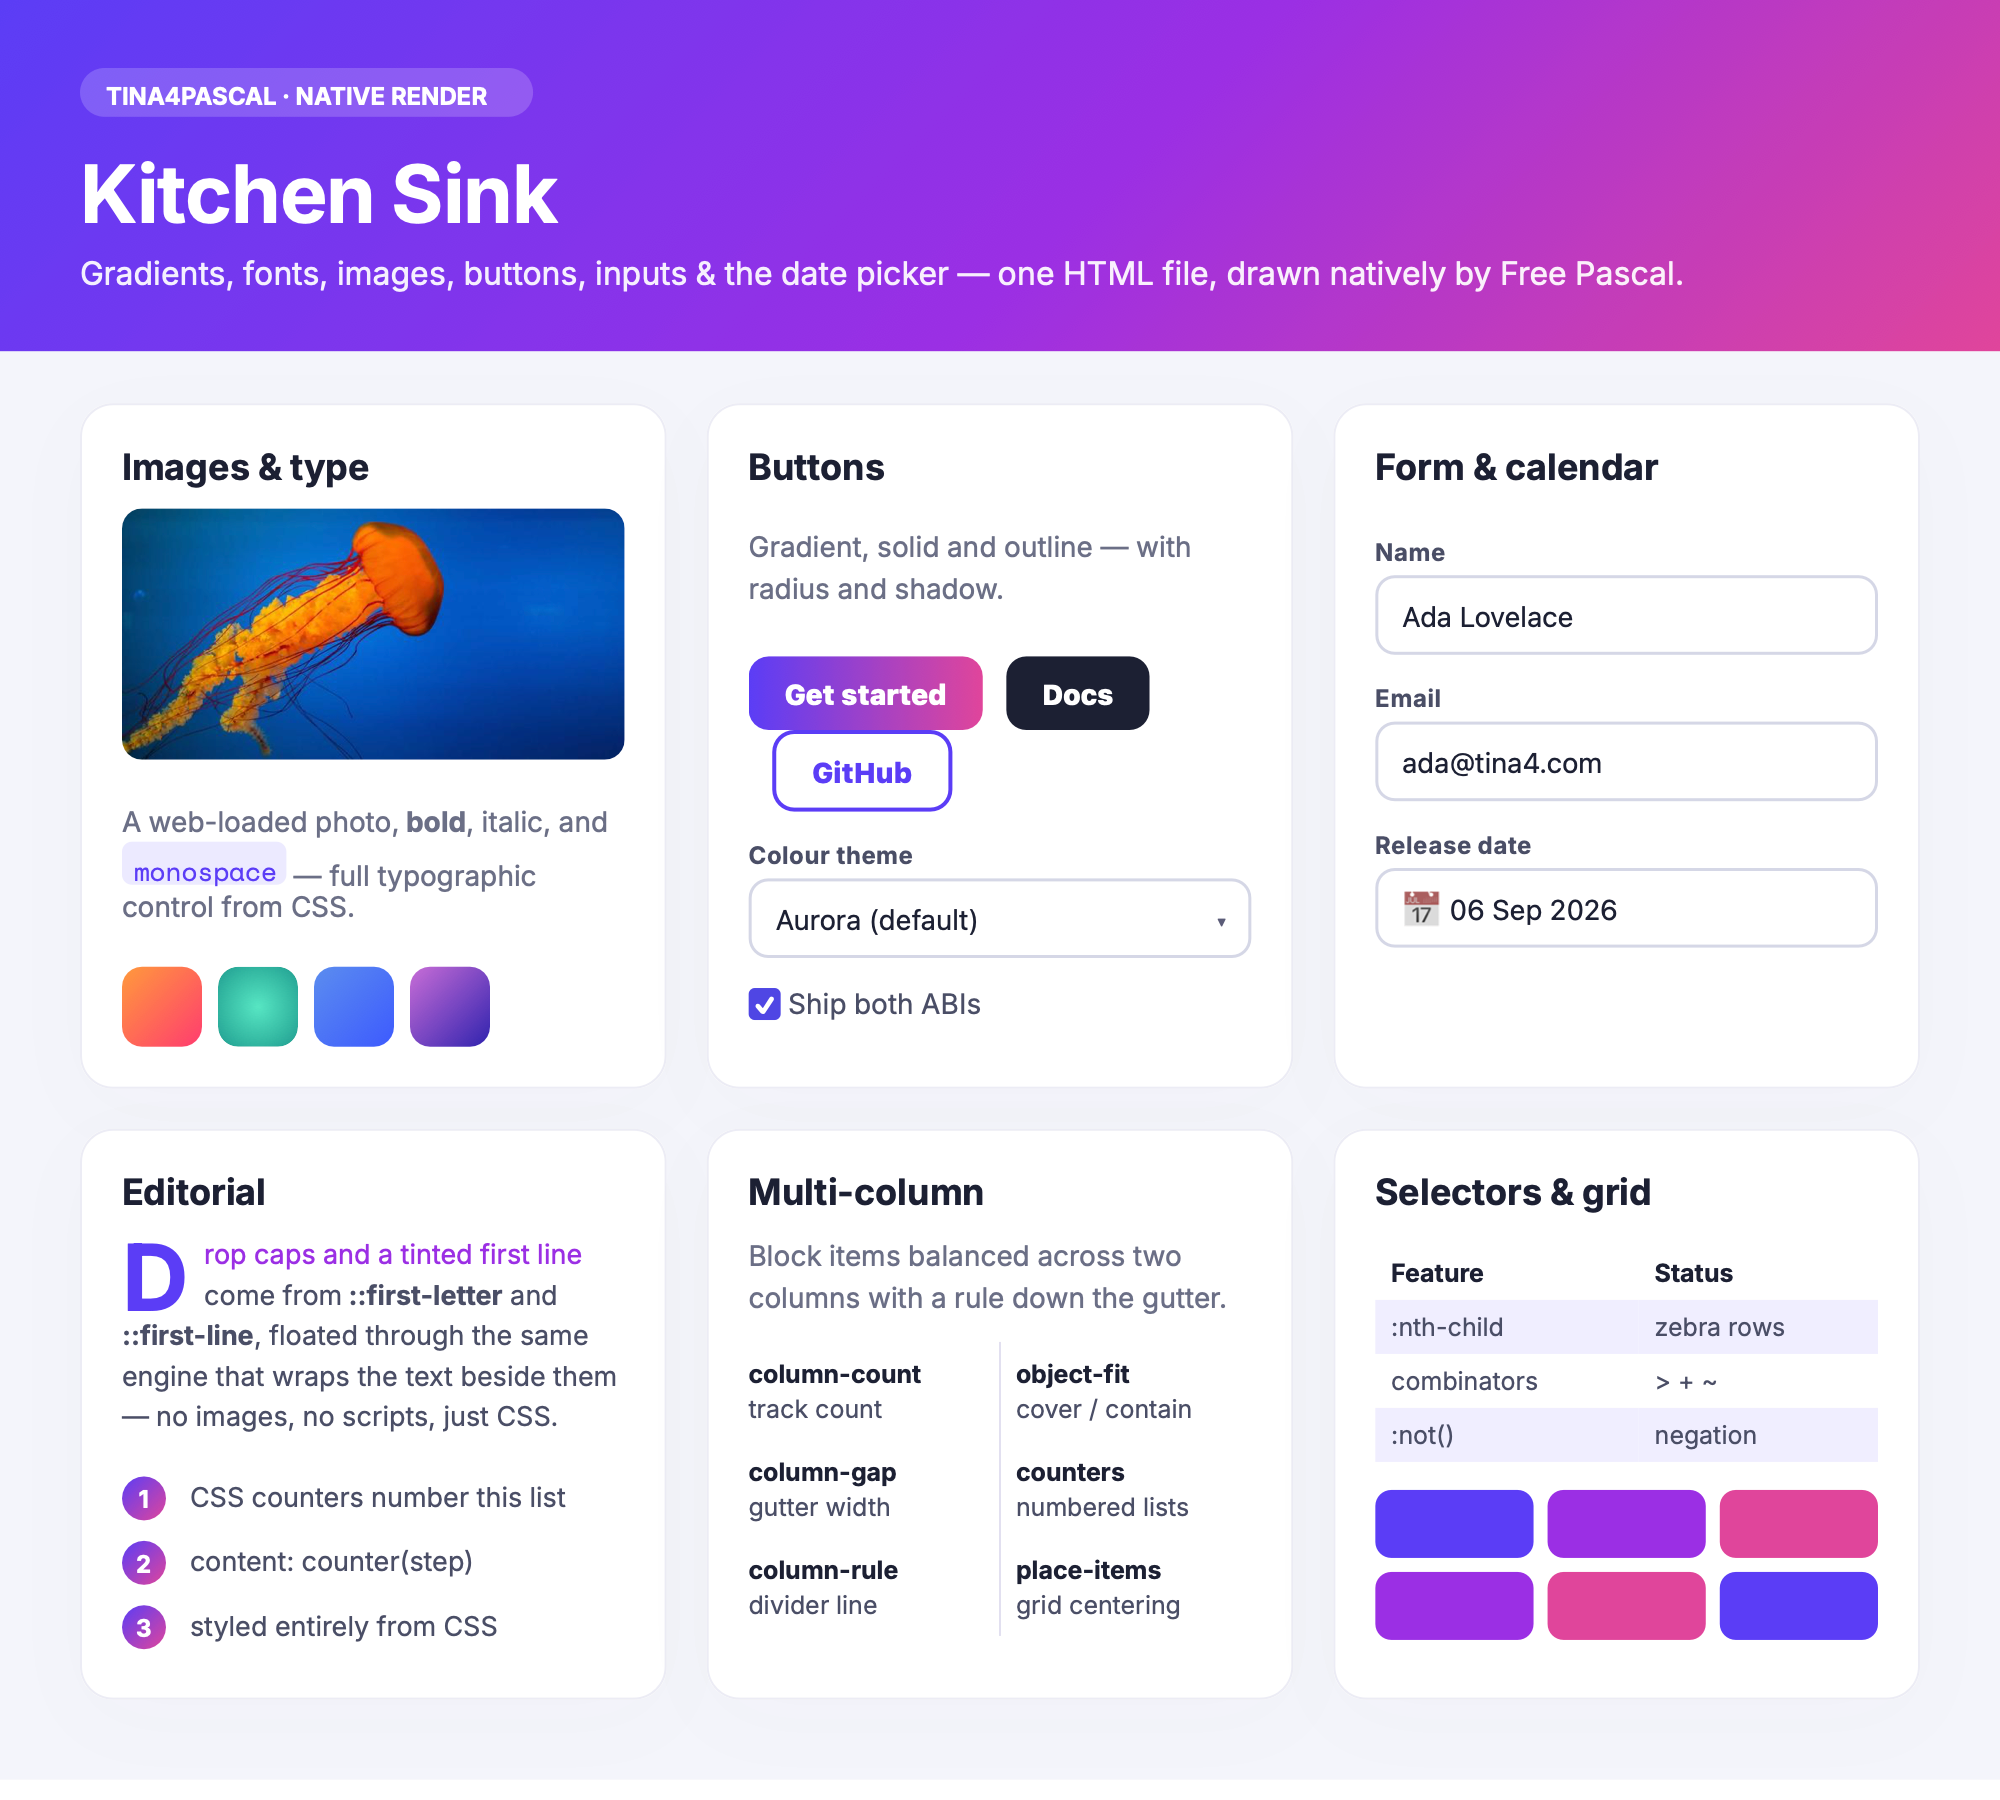
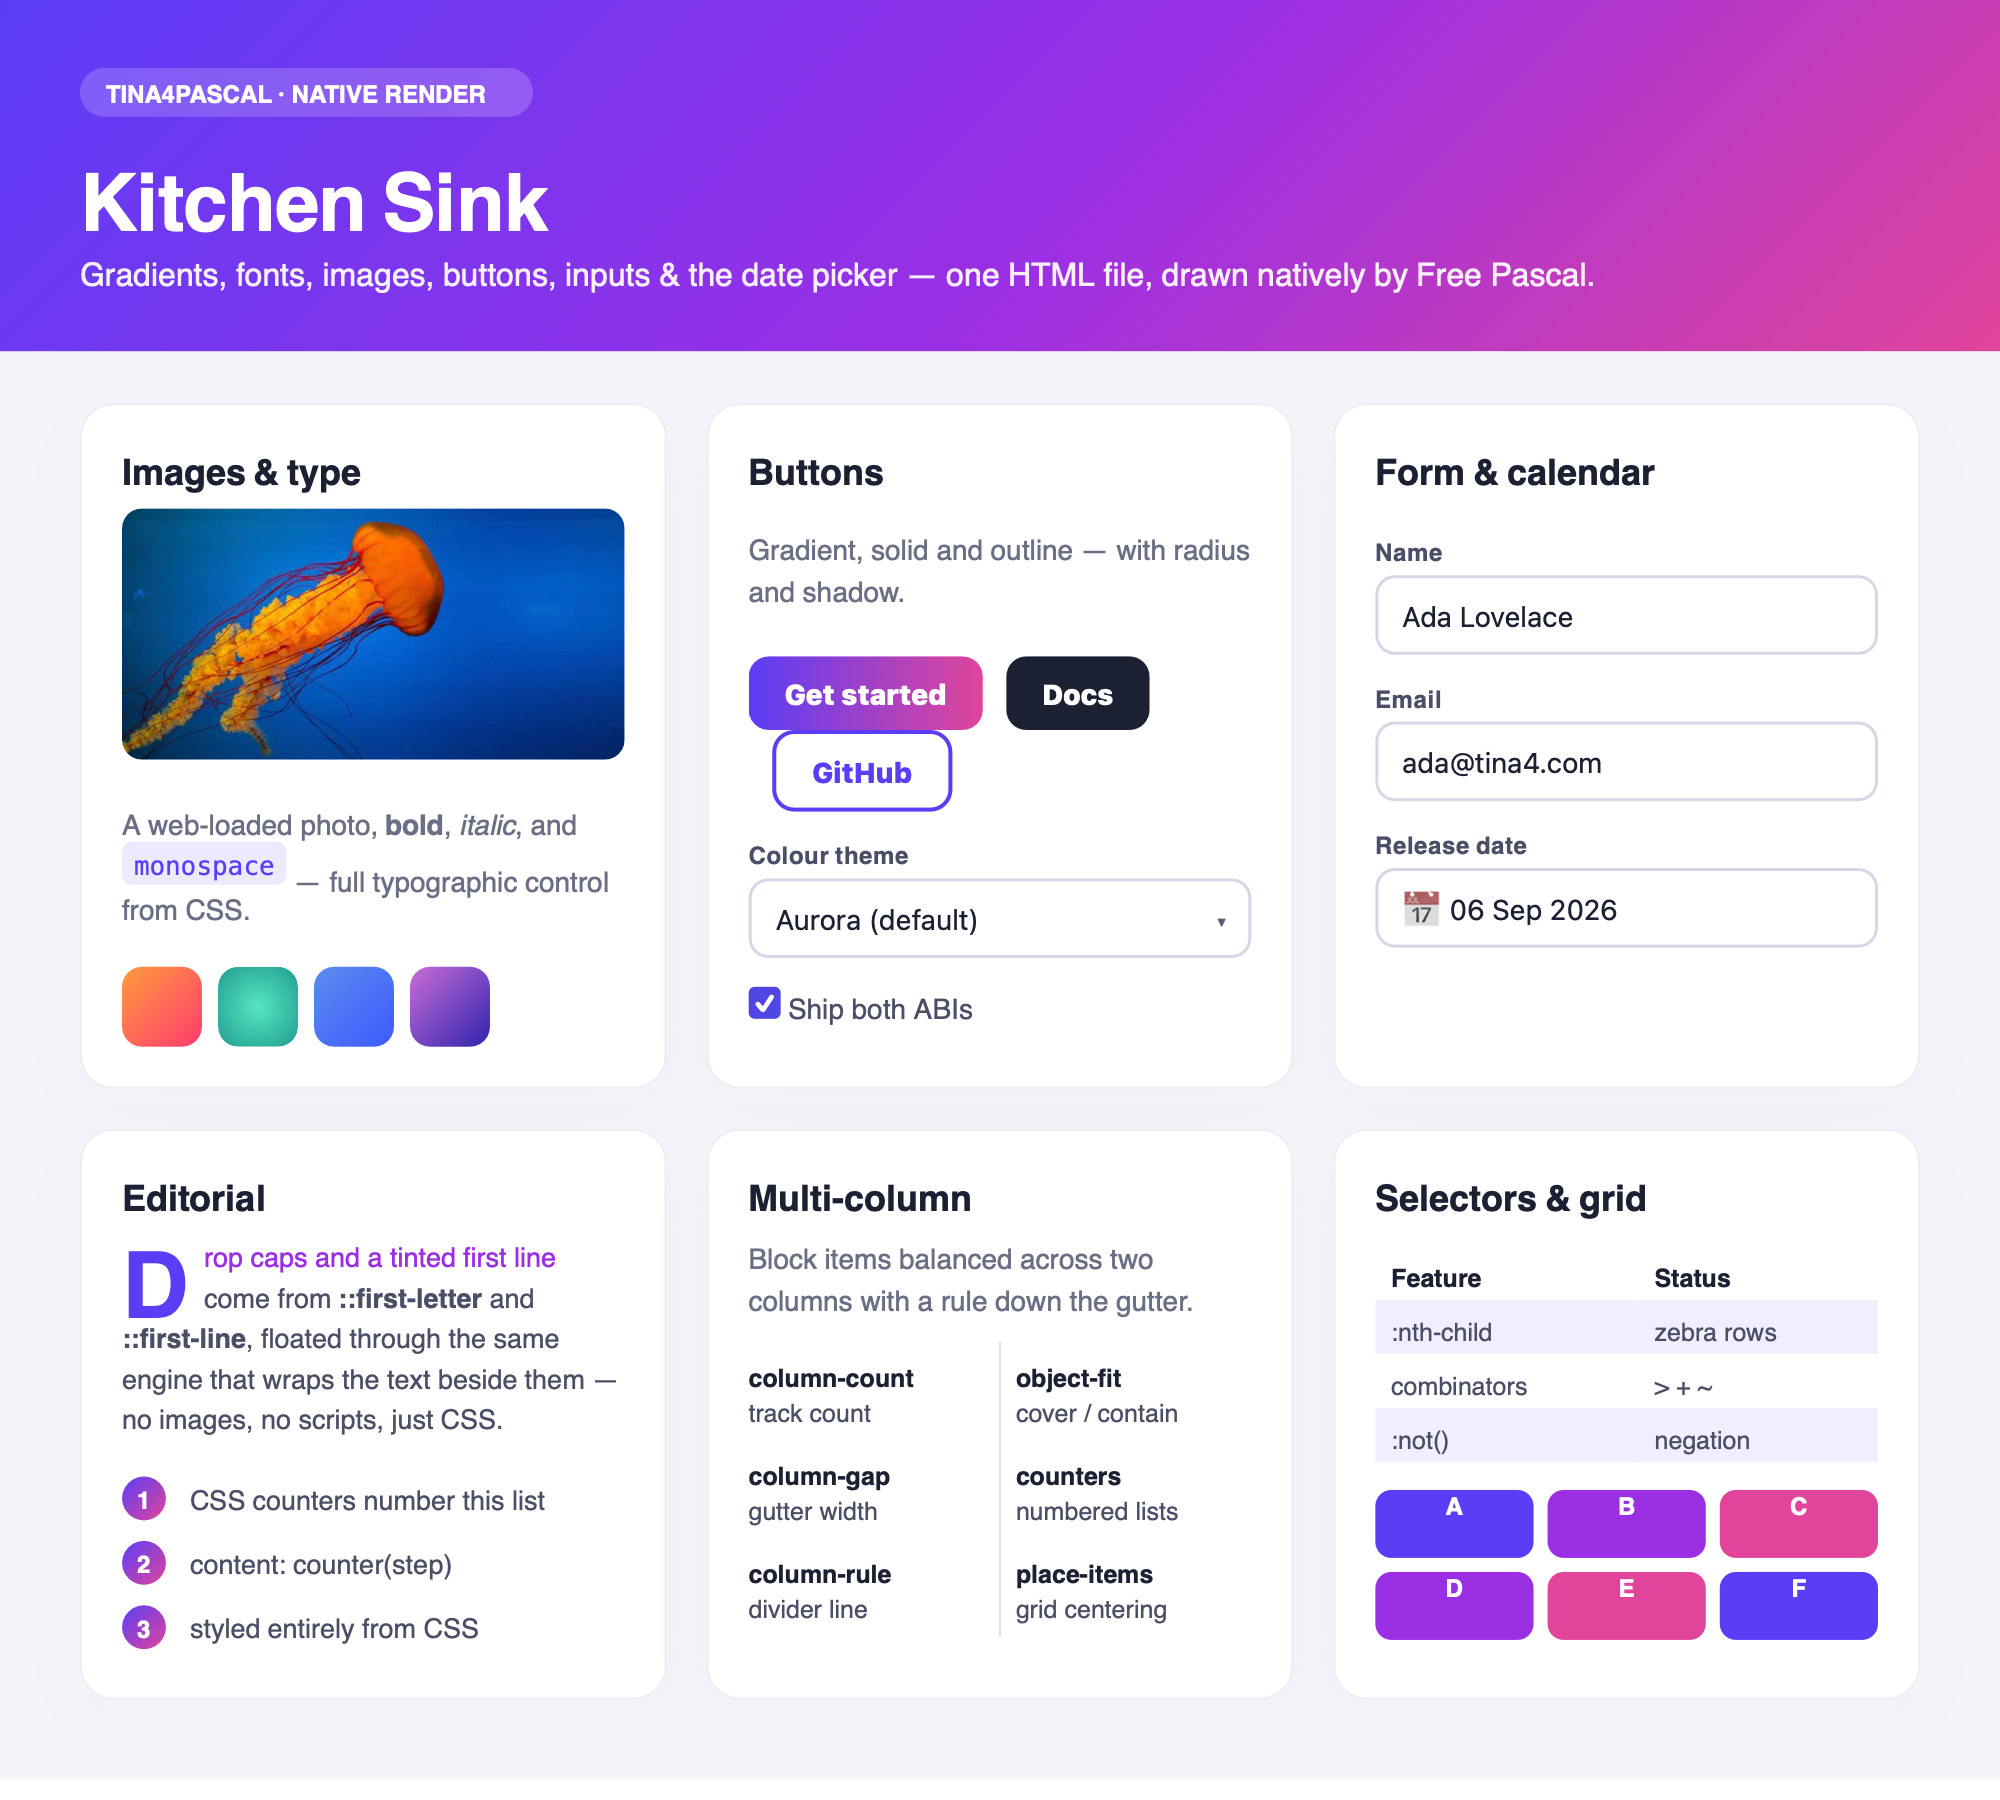
docs: comparison uses fallback fonts (both resolve to Helvetica)
Dropped the Google Fonts <link> — fallback fonts work now that the real bugs
are fixed (grid text rendering, default line-height). `Helvetica, Arial,
sans-serif` resolves to Helvetica on both the Cocoa renderer and macOS Chrome,
so the type is identical without a network font, and the grid captions render
centred. Re-rendered the A/B images.

diff --git a/examples/pages/kitchen-sink.html b/examples/pages/kitchen-sink.html
@@ -2,10 +2,9 @@
 <html>
 <head>
 <meta charset="utf-8">
-<link href="https://fonts.googleapis.com/css2?family=Inter:wght@400;500;600;700;800&family=Space+Mono:wght@400;700&display=swap" rel="stylesheet">
 <style>
   * { box-sizing: border-box; }
-  body { margin: 0; font-family: "Inter", sans-serif; color: #1c2033; background: #f4f5fb; }
+  body { margin: 0; font-family: Helvetica, Arial, sans-serif; color: #1c2033; background: #f4f5fb; }
   .hero {
     padding: 34px 40px 30px;
     background: linear-gradient(135deg, #5b3df6 0%, #9b2fe4 55%, #e0459b 100%);
@@ -37,7 +36,7 @@
     font-size: 14px; font-family: inherit; background: #fff; color: #1c2033;
   }
   .check { margin-top: 14px; font-size: 14px; color: #4a4e66; }
-  .mono { font-family: "Space Mono", monospace; background: #eceaff; color: #5b3df6; padding: 1px 6px; border-radius: 5px; font-size: 13px; }
+  .mono { font-family: Menlo, monospace; background: #eceaff; color: #5b3df6; padding: 1px 6px; border-radius: 5px; font-size: 13px; }
   .swatches { display: flex; gap: 8px; margin-top: 12px; }
   .sw { width: 40px; height: 40px; border-radius: 10px; }
   .s1 { background: linear-gradient(135deg,#ff9a3c,#ff3c6f); }
